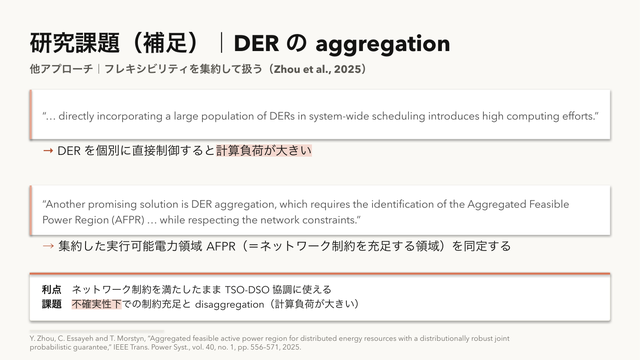
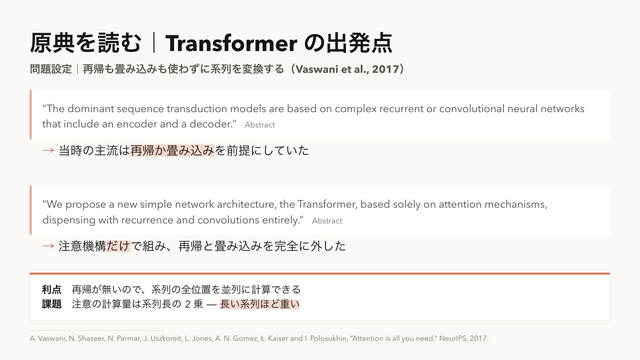
Replace survey/excerpt examples with public-source material
The survey and excerpt templates (and their copies in USAGE.md, the
skill's skeleton reference, the gallery thumbnails and the tests) were
drawn from a third party's unpublished meeting slides. They now use
examples built only from public papers: efficient-attention families
for survey, the abstract of "Attention Is All You Need" for excerpt.

Claude-Session: https://claude.ai/code/session_01EBjaAhJtvGw59xv4xRpe1z

diff --git a/tests/test_regressions.py b/tests/test_regressions.py
@@ -846,8 +846,8 @@ def _survey_md(n_groups: int, refs_per: int, *, mark: str = "") -> str:
     groups = []
     for g in range(n_groups):
         refs = "\n".join(
-            f'- A. Author{g}{r} et al., "A distributionally robust method for '
-            f'network-constrained dispatch number {g}-{r}," IEEE Trans. Power Syst., 2024.'
+            f'- A. Author{g}{r} et al., "A sparse attention method for memory-'
+            f'constrained long sequence models number {g}-{r}," Proc. NeurIPS Wkshp, 2024.'
             for r in range(refs_per))
         groups.append(f'<div class="sv-group">\n<span class="sv-label">手法 {g}｜**KEY{g}**</span>\n'
                       f'<span class="sv-gap">GAP{g}</span>\n\n{refs}\n</div>')
@@ -856,19 +856,19 @@ def _survey_md(n_groups: int, refs_per: int, *, mark: str = "") -> str:
 
 
 def test_survey_parses_groups_refs_and_mark():
-    sd = parse_slide(0, _survey_md(3, 2, mark="distributionally robust, dispatch"))
+    sd = parse_slide(0, _survey_md(3, 2, mark="sparse attention, sequence"))
     assert [g["label"] for g in sd.survey_groups] == [
         "手法 0｜**KEY0**", "手法 1｜**KEY1**", "手法 2｜**KEY2**"]
     assert all(len(g["refs"]) == 2 and g["gap"].startswith("GAP")
                for g in sd.survey_groups)
     assert sd.survey_groups[0]["refs"][0].startswith("A. Author00 et al.")
-    assert sd.marks == ["distributionally robust", "dispatch"]
+    assert sd.marks == ["sparse attention", "sequence"]
     assert sd.bottom_text == "VERDICT_TOKEN"
 
 
 def test_survey_renders_counts_gap_tag_and_marked_keyword(tmp_path):
     b = _make_builder(tmp_path)
-    b.build_survey(parse_slide(0, _survey_md(2, 3, mark="distributionally robust")))
+    b.build_survey(parse_slide(0, _survey_md(2, 3, mark="sparse attention")))
     slide = b.prs.slides[0]
     txt = _all_text(slide)
     assert "3 件" in txt and "課題　GAP0" in txt and "VERDICT_TOKEN" in txt
@@ -876,7 +876,7 @@ def test_survey_renders_counts_gap_tag_and_marked_keyword(tmp_path):
     hl = [r for s in slide.shapes if getattr(s, "has_text_frame", False)
           for p in s.text_frame.paragraphs for r in p.runs
           if r._r.find(".//{http://schemas.openxmlformats.org/drawingml/2006/main}highlight") is not None]
-    assert hl and all(r.text.lower() == "distributionally robust" for r in hl)
+    assert hl and all(r.text.lower() == "sparse attention" for r in hl)
 
 
 def test_survey_goes_two_column_before_overflowing(tmp_path):
@@ -944,9 +944,9 @@ def test_survey_citation_parts_are_told_apart(tmp_path):
     runs = [r for r in p.runs if r.text.strip()]
     assert runs[0].text.startswith("A. Author00 et al.")
     assert runs[0].font.color.rgb == b.FG
-    assert "“A distributionally" in p.text and '"' not in p.text
+    assert "“A sparse attention" in p.text and '"' not in p.text
     assert runs[-1].font.color.rgb == b.MUTED
-    assert "Syst., 2024." in runs[-1].text
+    assert "Wkshp, 2024." in runs[-1].text
 
 
 def test_survey_hides_counts_when_there_is_nothing_to_compare(tmp_path):

diff --git a/tests/test_ingest.py b/tests/test_ingest.py
@@ -82,18 +82,19 @@ def test_check_fidelity_flags_mislabeled_metric():
 
 def test_check_fidelity_verifies_excerpt_quotes_verbatim():
     # PDF text: hyphenated line breaks, a ligature, different quote marks
-    source = ("Directly incorporating a large popu-\nlation of DERs introduces "
-              "high comput-\ning efforts. The identiﬁcation of the AFPR respects "
-              "the network constraints.")
+    source = ("The dominant sequence transduction models are based on complex recur-\n"
+              "rent or convolutional neural networks that include an encoder and a de-\n"
+              "coder. We propose a new simple network architecture, the Transformer, "
+              "based solely on attention mechanisms, requiring signiﬁcantly less time.")
     def deck(q):
         return ("---\nmarp: true\n---\n\n<!-- _class: excerpt -->\n# R\n"
                 f'<div class="ex-item">\n<span class="ex-quote">{q}</span>\n</div>\n')
-    ok = check_fidelity(deck('"… directly incorporating a large population of DERs '
-                             'introduces high computing efforts. … the identification '
-                             'of the AFPR …"'), source)
+    ok = check_fidelity(deck('"… based on complex recurrent or convolutional neural '
+                             'networks that include an encoder and a decoder. … the '
+                             'Transformer, based solely on attention mechanisms …"'), source)
     assert ok["misquoted"] == [] and ok["quotes_verified"] == 1 and ok["score"] == 100
-    bad = check_fidelity(deck('"directly incorporating a large population of DERs '
-                              'reduces the computing efforts."'), source)
+    bad = check_fidelity(deck('"the Transformer, based partly on attention mechanisms"'),
+                         source)
     assert bad["quotes_verified"] == 0 and len(bad["misquoted"]) == 1
-    assert "reduces the computing" in bad["misquoted"][0]["fragment"]
+    assert "based partly on attention" in bad["misquoted"][0]["fragment"]
     assert bad["score"] < 100

diff --git a/USAGE.md b/USAGE.md
@@ -813,64 +813,67 @@ JSON の書き方で「点・線・面」の地物と属性を表す。座標は
 
 ```markdown
 <!-- _class: survey -->
-<!-- _mark: distributionally robust -->
+<!-- _mark: attention -->
 
-# 関連研究｜ネットワーク制約の扱い
+# 関連研究｜注意機構の計算量を下げる 3 系統
 
-## 共通の短所｜緩和・近似モデルではネットワーク制約の充足が保証されない
+## 共通の課題｜どの系統も、精度・計算量・実装の手間のどれかを手放している
 
 <div class="sv-group">
-<span class="sv-label">電力潮流方程式の**線形近似**モデル</span>
-<span class="sv-gap">近似誤差の分だけ電圧・電流の制約を逸脱しうる</span>
+<span class="sv-label">**疎な注意**パターン</span>
+<span class="sv-gap">固定パターンの外にある長距離の依存を取りこぼしうる</span>
 
-- Y. Wen et al., "Centralized distributionally robust chance-constrained dispatch of integrated transmission-distribution systems," IEEE Trans. Power Syst., 2024.
-- S. Talari et al., "Sequential clearing of network-aware local energy and flexibility markets in community-based grids," IEEE Trans. Smart Grid, 2024.
-- X. Shi et al., "Day-ahead distributionally robust optimization-based scheduling for distribution systems with electric vehicles," IEEE Trans. Smart Grid, 2023.
-- Y. Zhou et al., "Aggregated feasible active power region for distributed energy resources with a distributionally robust joint probabilistic guarantee," IEEE Trans. Power Syst., 2025.
+- R. Child et al., "Generating long sequences with sparse transformers," arXiv:1904.10509, 2019.
+- I. Beltagy et al., "Longformer: The long-document transformer," arXiv:2004.05150, 2020.
+- M. Zaheer et al., "Big Bird: Transformers for longer sequences," NeurIPS, 2020.
 </div>
 
 <div class="sv-group">
-<span class="sv-label">電力潮流方程式の**二次錐緩和**モデル</span>
-<span class="sv-gap">緩和が厳密にならない条件では解が物理的に実現できない</span>
+<span class="sv-label">**低ランク・カーネル**近似</span>
+<span class="sv-gap">近似の誤差がそのまま精度の低下になる</span>
 
-- T. Jiang et al., "Flexibility clearing in joint energy and flexibility markets considering TSO-DSO coordination," IEEE Trans. Smart Grid, 2023.
+- S. Wang et al., "Linformer: Self-attention with linear complexity," arXiv:2006.04768, 2020.
+- K. Choromanski et al., "Rethinking attention with performers," ICLR, 2021.
 </div>
 
 <div class="sv-group">
-<span class="sv-label">アフィン方策で**緩和**＋機会制約を**近似**</span>
+<span class="sv-label">**IO を意識した**厳密計算</span>
+<span class="sv-gap">速く省メモリになるが、計算量のオーダーは変わらない</span>
 
-- M. Rayati et al., "Distributionally robust chance constrained optimization for providing flexibility in an active distribution network," IEEE Trans. Smart Grid, 2022.
+- T. Dao et al., "FlashAttention: Fast and memory-efficient exact attention with IO-awareness," NeurIPS, 2022.
 </div>
 
-<div class="sv-verdict">未解決: 不確実性の下でネットワーク制約の充足を保証しつつ、計算負荷を抑える方法</div>
+<div class="sv-verdict">未解決: 精度を保ったまま、長い系列で計算量そのものを下げる方法</div>
 ```
 
 #### excerpt — 原文抜粋＋読み
 
 論文の一節をそのまま `ex-quote` に引き、その下の `ex-read` に解釈を添えるとき。`ex-cite`（省略可）は引用の位置（`Sec. I` など）を引用の後ろに小さく出す。`ex-source` は脚注帯に完全な書誌を出す。`ex-verdict` / `sv-verdict` は `<br>` で改行でき、`**利点**` のように行頭を太字にできる。`check_deck_against_source` / `from-paper` は `ex-quote` が論文本文に逐語で存在するかを照合する（`…` の前後は別々に照合）。
 
-**論文から切り抜く**: スライドに `<!-- _paper: papers/zhou2025.pdf -->`（MD からの相対パス）を書くと、各 `ex-quote` を PDF 内で探し、その段落を**論文の組版のまま画像で切り抜いて**載せる。引用した語にマーカー、前後 1 行は薄く、下に `Sec. I, p. 2` のような位置、右に読み。PDF に見つからない引用だけは文字のカードに戻り、警告が出る（引用の打ち間違いにも気づける）。PyMuPDF（`pip install "marp-pptx[ingest]"`）が必要。
+**論文から切り抜く**: スライドに `<!-- _paper: papers/vaswani2017.pdf -->`（MD からの相対パス）を書くと、各 `ex-quote` を PDF 内で探し、その段落を**論文の組版のまま画像で切り抜いて**載せる。引用した語にマーカー、前後 1 行は薄く、下に `Sec. I, p. 2` のような位置、右に読み。PDF に見つからない引用だけは文字のカードに戻り、警告が出る（引用の打ち間違いにも気づける）。PyMuPDF（`pip install "marp-pptx[ingest]"`）が必要。
 
 ```markdown
 <!-- _class: excerpt -->
 
-# 研究課題（補足）｜DER の aggregation
+# 原典を読む｜Transformer の出発点
 
-## 他アプローチ｜フレキシビリティを集約して扱う（Zhou et al., 2025）
+## 問題設定｜再帰も畳み込みも使わずに系列を変換する（Vaswani et al., 2017）
 
 <div class="ex-item">
-<span class="ex-quote">"… directly incorporating a large population of DERs in system-wide scheduling introduces high computing efforts."</span>
-<span class="ex-read">DER を個別に直接制御すると==計算負荷が大きい==</span>
+<span class="ex-quote">"The dominant sequence transduction models are based on complex recurrent or convolutional neural networks that include an encoder and a decoder."</span>
+<span class="ex-cite">Abstract</span>
+<span class="ex-read">当時の主流は==再帰か畳み込み==を前提にしていた</span>
 </div>
 
 <div class="ex-item">
-<span class="ex-quote">"Another promising solution is DER aggregation, which requires the identification of the Aggregated Feasible Power Region (AFPR) … while respecting the network constraints."</span>
-<span class="ex-read">集約した実行可能電力領域 AFPR（＝ネットワーク制約を充足する領域）を同定する</span>
+<span class="ex-quote">"We propose a new simple network architecture, the Transformer, based solely on attention mechanisms, dispensing with recurrence and convolutions entirely."</span>
+<span class="ex-cite">Abstract</span>
+<span class="ex-read">注意機構==だけ==で組み、再帰と畳み込みを完全に外した</span>
 </div>
 
-<div class="ex-verdict">**利点**　ネットワーク制約を満たしたまま TSO-DSO 協調に使える<br>**課題**　==不確実性下==での制約充足と disaggregation（計算負荷が大きい）</div>
+<div class="ex-verdict">**利点**　再帰が無いので、系列の全位置を並列に計算できる<br>**課題**　注意の計算量は系列長の 2 乗 — ==長い系列ほど重い==</div>
 
-<div class="ex-source">Y. Zhou, C. Essayeh and T. Morstyn, "Aggregated feasible active power region for distributed energy resources with a distributionally robust joint probabilistic guarantee," IEEE Trans. Power Syst., vol. 40, no. 1, pp. 556–571, 2025.</div>
+<div class="ex-source">A. Vaswani, N. Shazeer, N. Parmar, J. Uszkoreit, L. Jones, A. N. Gomez, Ł. Kaiser and I. Polosukhin, "Attention is all you need," NeurIPS, 2017.</div>
 ```
 
 #### sections — 高密度トピック積層

diff --git a/skills/marp-pptx/references/type-skeletons.md b/skills/marp-pptx/references/type-skeletons.md
@@ -1216,36 +1216,37 @@ class SparseAttention(nn.Module):
 
 ```markdown
 <!-- _class: survey -->
-<!-- _mark: distributionally robust -->
+<!-- _mark: attention -->
 
-# 関連研究｜ネットワーク制約の扱い
+# 関連研究｜注意機構の計算量を下げる 3 系統
 
-## 共通の短所｜緩和・近似モデルではネットワーク制約の充足が保証されない
+## 共通の課題｜どの系統も、精度・計算量・実装の手間のどれかを手放している
 
 <div class="sv-group">
-<span class="sv-label">電力潮流方程式の**線形近似**モデル</span>
-<span class="sv-gap">近似誤差の分だけ電圧・電流の制約を逸脱しうる</span>
+<span class="sv-label">**疎な注意**パターン</span>
+<span class="sv-gap">固定パターンの外にある長距離の依存を取りこぼしうる</span>
 
-- Y. Wen et al., "Centralized distributionally robust chance-constrained dispatch of integrated transmission-distribution systems," IEEE Trans. Power Syst., 2024.
-- S. Talari et al., "Sequential clearing of network-aware local energy and flexibility markets in community-based grids," IEEE Trans. Smart Grid, 2024.
-- X. Shi et al., "Day-ahead distributionally robust optimization-based scheduling for distribution systems with electric vehicles," IEEE Trans. Smart Grid, 2023.
-- Y. Zhou et al., "Aggregated feasible active power region for distributed energy resources with a distributionally robust joint probabilistic guarantee," IEEE Trans. Power Syst., 2025.
+- R. Child et al., "Generating long sequences with sparse transformers," arXiv:1904.10509, 2019.
+- I. Beltagy et al., "Longformer: The long-document transformer," arXiv:2004.05150, 2020.
+- M. Zaheer et al., "Big Bird: Transformers for longer sequences," NeurIPS, 2020.
 </div>
 
 <div class="sv-group">
-<span class="sv-label">電力潮流方程式の**二次錐緩和**モデル</span>
-<span class="sv-gap">緩和が厳密にならない条件では解が物理的に実現できない</span>
+<span class="sv-label">**低ランク・カーネル**近似</span>
+<span class="sv-gap">近似の誤差がそのまま精度の低下になる</span>
 
-- T. Jiang et al., "Flexibility clearing in joint energy and flexibility markets considering TSO-DSO coordination," IEEE Trans. Smart Grid, 2023.
+- S. Wang et al., "Linformer: Self-attention with linear complexity," arXiv:2006.04768, 2020.
+- K. Choromanski et al., "Rethinking attention with performers," ICLR, 2021.
 </div>
 
 <div class="sv-group">
-<span class="sv-label">アフィン方策で**緩和**＋機会制約を**近似**</span>
+<span class="sv-label">**IO を意識した**厳密計算</span>
+<span class="sv-gap">速く省メモリになるが、計算量のオーダーは変わらない</span>
 
-- M. Rayati et al., "Distributionally robust chance constrained optimization for providing flexibility in an active distribution network," IEEE Trans. Smart Grid, 2022.
+- T. Dao et al., "FlashAttention: Fast and memory-efficient exact attention with IO-awareness," NeurIPS, 2022.
 </div>
 
-<div class="sv-verdict">未解決: 不確実性の下でネットワーク制約の充足を保証しつつ、計算負荷を抑える方法</div>
+<div class="sv-verdict">未解決: 精度を保ったまま、長い系列で計算量そのものを下げる方法</div>
 ```
 
 ### `excerpt` — 原文抜粋＋読み
@@ -1254,23 +1255,25 @@ class SparseAttention(nn.Module):
 ```markdown
 <!-- _class: excerpt -->
 
-# 研究課題（補足）｜DER の aggregation
+# 原典を読む｜Transformer の出発点
 
-## 他アプローチ｜フレキシビリティを集約して扱う（Zhou et al., 2025）
+## 問題設定｜再帰も畳み込みも使わずに系列を変換する（Vaswani et al., 2017）
 
 <div class="ex-item">
-<span class="ex-quote">"… directly incorporating a large population of DERs in system-wide scheduling introduces high computing efforts."</span>
-<span class="ex-read">DER を個別に直接制御すると==計算負荷が大きい==</span>
+<span class="ex-quote">"The dominant sequence transduction models are based on complex recurrent or convolutional neural networks that include an encoder and a decoder."</span>
+<span class="ex-cite">Abstract</span>
+<span class="ex-read">当時の主流は==再帰か畳み込み==を前提にしていた</span>
 </div>
 
 <div class="ex-item">
-<span class="ex-quote">"Another promising solution is DER aggregation, which requires the identification of the Aggregated Feasible Power Region (AFPR) … while respecting the network constraints."</span>
-<span class="ex-read">集約した実行可能電力領域 AFPR（＝ネットワーク制約を充足する領域）を同定する</span>
+<span class="ex-quote">"We propose a new simple network architecture, the Transformer, based solely on attention mechanisms, dispensing with recurrence and convolutions entirely."</span>
+<span class="ex-cite">Abstract</span>
+<span class="ex-read">注意機構==だけ==で組み、再帰と畳み込みを完全に外した</span>
 </div>
 
-<div class="ex-verdict">**利点**　ネットワーク制約を満たしたまま TSO-DSO 協調に使える<br>**課題**　==不確実性下==での制約充足と disaggregation（計算負荷が大きい）</div>
+<div class="ex-verdict">**利点**　再帰が無いので、系列の全位置を並列に計算できる<br>**課題**　注意の計算量は系列長の 2 乗 — ==長い系列ほど重い==</div>
 
-<div class="ex-source">Y. Zhou, C. Essayeh and T. Morstyn, "Aggregated feasible active power region for distributed energy resources with a distributionally robust joint probabilistic guarantee," IEEE Trans. Power Syst., vol. 40, no. 1, pp. 556–571, 2025.</div>
+<div class="ex-source">A. Vaswani, N. Shazeer, N. Parmar, J. Uszkoreit, L. Jones, A. N. Gomez, Ł. Kaiser and I. Polosukhin, "Attention is all you need," NeurIPS, 2017.</div>
 ```
 
 ## 流れ・構造（flow）

diff --git a/src/marp_pptx/data/templates/62-survey.md b/src/marp_pptx/data/templates/62-survey.md
@@ -5,33 +5,34 @@ paginate: true
 ---
 
 <!-- _class: survey -->
-<!-- _mark: distributionally robust -->
+<!-- _mark: attention -->
 
-# 関連研究｜ネットワーク制約の扱い
+# 関連研究｜注意機構の計算量を下げる 3 系統
 
-## 共通の短所｜緩和・近似モデルではネットワーク制約の充足が保証されない
+## 共通の課題｜どの系統も、精度・計算量・実装の手間のどれかを手放している
 
 <div class="sv-group">
-<span class="sv-label">電力潮流方程式の**線形近似**モデル</span>
-<span class="sv-gap">近似誤差の分だけ電圧・電流の制約を逸脱しうる</span>
+<span class="sv-label">**疎な注意**パターン</span>
+<span class="sv-gap">固定パターンの外にある長距離の依存を取りこぼしうる</span>
 
-- Y. Wen et al., "Centralized distributionally robust chance-constrained dispatch of integrated transmission-distribution systems," IEEE Trans. Power Syst., 2024.
-- S. Talari et al., "Sequential clearing of network-aware local energy and flexibility markets in community-based grids," IEEE Trans. Smart Grid, 2024.
-- X. Shi et al., "Day-ahead distributionally robust optimization-based scheduling for distribution systems with electric vehicles," IEEE Trans. Smart Grid, 2023.
-- Y. Zhou et al., "Aggregated feasible active power region for distributed energy resources with a distributionally robust joint probabilistic guarantee," IEEE Trans. Power Syst., 2025.
+- R. Child et al., "Generating long sequences with sparse transformers," arXiv:1904.10509, 2019.
+- I. Beltagy et al., "Longformer: The long-document transformer," arXiv:2004.05150, 2020.
+- M. Zaheer et al., "Big Bird: Transformers for longer sequences," NeurIPS, 2020.
 </div>
 
 <div class="sv-group">
-<span class="sv-label">電力潮流方程式の**二次錐緩和**モデル</span>
-<span class="sv-gap">緩和が厳密にならない条件では解が物理的に実現できない</span>
+<span class="sv-label">**低ランク・カーネル**近似</span>
+<span class="sv-gap">近似の誤差がそのまま精度の低下になる</span>
 
-- T. Jiang et al., "Flexibility clearing in joint energy and flexibility markets considering TSO-DSO coordination," IEEE Trans. Smart Grid, 2023.
+- S. Wang et al., "Linformer: Self-attention with linear complexity," arXiv:2006.04768, 2020.
+- K. Choromanski et al., "Rethinking attention with performers," ICLR, 2021.
 </div>
 
 <div class="sv-group">
-<span class="sv-label">アフィン方策で**緩和**＋機会制約を**近似**</span>
+<span class="sv-label">**IO を意識した**厳密計算</span>
+<span class="sv-gap">速く省メモリになるが、計算量のオーダーは変わらない</span>
 
-- M. Rayati et al., "Distributionally robust chance constrained optimization for providing flexibility in an active distribution network," IEEE Trans. Smart Grid, 2022.
+- T. Dao et al., "FlashAttention: Fast and memory-efficient exact attention with IO-awareness," NeurIPS, 2022.
 </div>
 
-<div class="sv-verdict">未解決: 不確実性の下でネットワーク制約の充足を保証しつつ、計算負荷を抑える方法</div>
+<div class="sv-verdict">未解決: 精度を保ったまま、長い系列で計算量そのものを下げる方法</div>

diff --git a/src/marp_pptx/data/templates/63-excerpt.md b/src/marp_pptx/data/templates/63-excerpt.md
@@ -6,20 +6,22 @@ paginate: true
 
 <!-- _class: excerpt -->
 
-# 研究課題（補足）｜DER の aggregation
+# 原典を読む｜Transformer の出発点
 
-## 他アプローチ｜フレキシビリティを集約して扱う（Zhou et al., 2025）
+## 問題設定｜再帰も畳み込みも使わずに系列を変換する（Vaswani et al., 2017）
 
 <div class="ex-item">
-<span class="ex-quote">"… directly incorporating a large population of DERs in system-wide scheduling introduces high computing efforts."</span>
-<span class="ex-read">DER を個別に直接制御すると==計算負荷が大きい==</span>
+<span class="ex-quote">"The dominant sequence transduction models are based on complex recurrent or convolutional neural networks that include an encoder and a decoder."</span>
+<span class="ex-cite">Abstract</span>
+<span class="ex-read">当時の主流は==再帰か畳み込み==を前提にしていた</span>
 </div>
 
 <div class="ex-item">
-<span class="ex-quote">"Another promising solution is DER aggregation, which requires the identification of the Aggregated Feasible Power Region (AFPR) … while respecting the network constraints."</span>
-<span class="ex-read">集約した実行可能電力領域 AFPR（＝ネットワーク制約を充足する領域）を同定する</span>
+<span class="ex-quote">"We propose a new simple network architecture, the Transformer, based solely on attention mechanisms, dispensing with recurrence and convolutions entirely."</span>
+<span class="ex-cite">Abstract</span>
+<span class="ex-read">注意機構==だけ==で組み、再帰と畳み込みを完全に外した</span>
 </div>
 
-<div class="ex-verdict">**利点**　ネットワーク制約を満たしたまま TSO-DSO 協調に使える<br>**課題**　==不確実性下==での制約充足と disaggregation（計算負荷が大きい）</div>
+<div class="ex-verdict">**利点**　再帰が無いので、系列の全位置を並列に計算できる<br>**課題**　注意の計算量は系列長の 2 乗 — ==長い系列ほど重い==</div>
 
-<div class="ex-source">Y. Zhou, C. Essayeh and T. Morstyn, "Aggregated feasible active power region for distributed energy resources with a distributionally robust joint probabilistic guarantee," IEEE Trans. Power Syst., vol. 40, no. 1, pp. 556–571, 2025.</div>
+<div class="ex-source">A. Vaswani, N. Shazeer, N. Parmar, J. Uszkoreit, L. Jones, A. N. Gomez, Ł. Kaiser and I. Polosukhin, "Attention is all you need," NeurIPS, 2017.</div>

diff --git a/skills/marp-pptx/SKILL.md b/skills/marp-pptx/SKILL.md
@@ -94,7 +94,7 @@ MCP 接続時（`marp-pptx[mcp]`）は以下のツールを使う:
 1. **`survey`** — 手法の分類ごとに、その手法を採る論文を下に並べる。分類ラベルは手法名（キーワードを `**太字**`）、
    `sv-gap` にその分類の課題、h2 リードに全分類共通の短所、`sv-verdict` に未解決点（＝自研究の位置づけ）。
    文献は実在する書誌だけを書く（著者・題目・誌名・年）。各行は「左: 手法名＋件数／右: 課題と文献」の 2 ゾーンに組まれ、件数でどこに研究が集中しているかが見える。
-   ある用語が近年のタイトルに並ぶこと自体を根拠にしたいときは `<!-- _mark: distributionally robust -->` で全タイトル中の語をマーカー表示する。
+   ある用語が近年のタイトルに並ぶこと自体を根拠にしたいときは `<!-- _mark: attention -->` で全タイトル中の語をマーカー表示する。
    文献の無い「手法→性質→課題」の整理（従来手法の弱点比較）も `sv-body` + `sv-gap` で同じ型に載る。
 2. **`excerpt`** — 論文の一文をそのまま `ex-quote` に引き、その下の `ex-read` に日本語の読み（要点は `==マーカー==`）。
    省略は `…` で示す。**引用は `read_paper` の本文からコピーし、言い換えない**。
